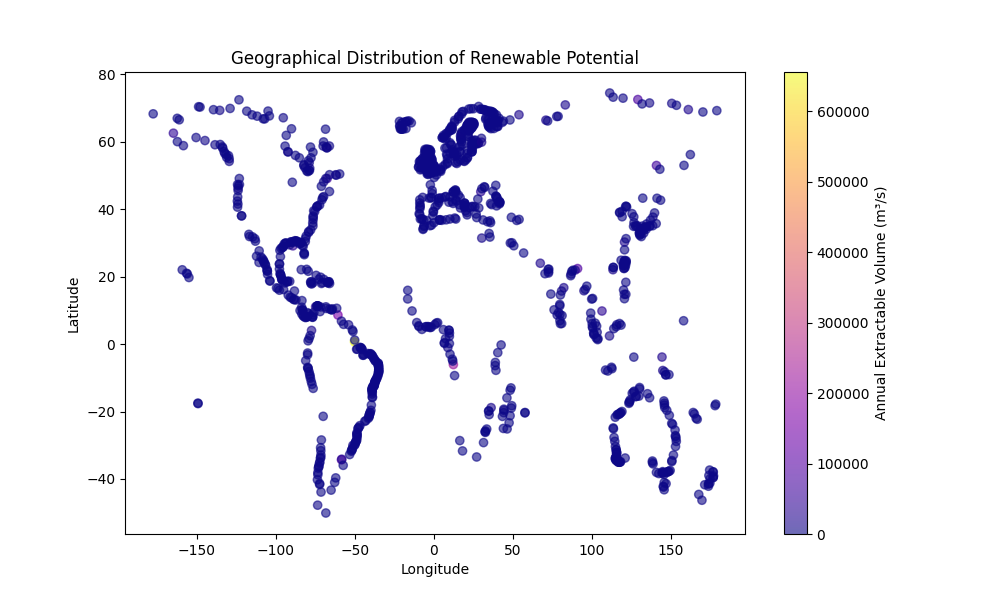
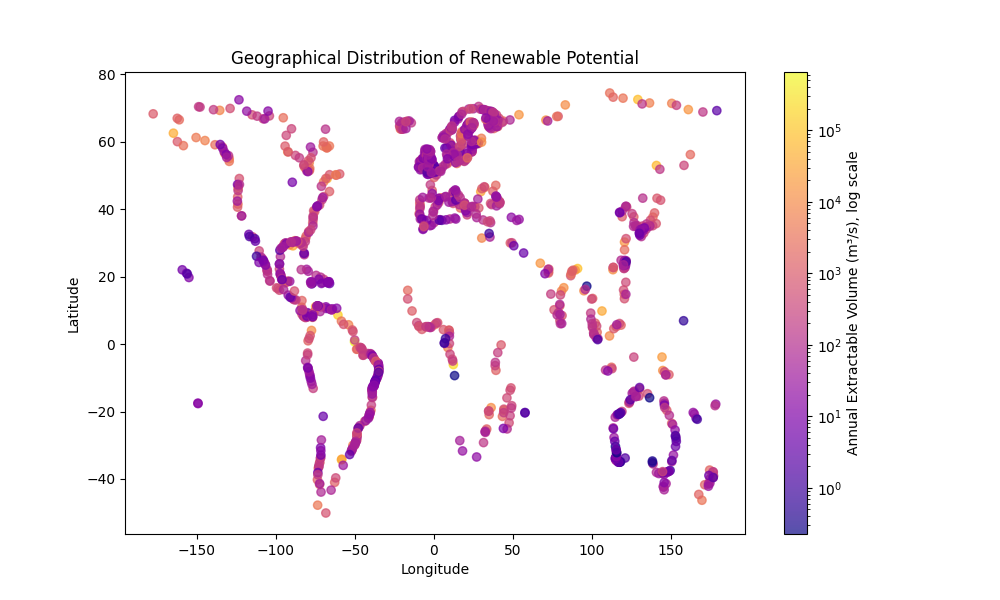
Fix spatial_potential.png colour scale from linear to logarithmic
With a linear scale, this dataset's heavy skew (a small number of very large rivers, most far smaller) crushed nearly every point into the same dark colour, making the chart uninformative. Switched to LogNorm, which spreads the colour range across orders of magnitude instead; verified against the real dataset that variation among small and medium rivers is now clearly visible.

diff --git a/visualize_data.py b/visualize_data.py
@@ -7,12 +7,22 @@ MONTHS = ["January", "February", "March", "April", "May", "June",
 MONTH_COLS = [f"Theoretical_MW_{m}" for m in MONTHS]
 
 def plot_spatial_potential(df):
+    import matplotlib.colors as mcolors
     plt.figure(figsize=(10, 6))
     valid_df = df.dropna(subset=['Longitude', 'Latitude'])
+    values = valid_df.get('Actual extractable water volume per year (Qreal=ΣQex_m) \n(m3/s)', valid_df.iloc[:, 0])
+    # A linear colour scale is unusable here: this dataset is heavily skewed
+    # (a small number of very large rivers, most rivers far smaller), so a
+    # linear scale crushes nearly every point into the same dark colour.
+    # LogNorm spreads the colour range across orders of magnitude instead,
+    # making variation among small and medium rivers actually visible.
+    # Values of zero or below can't be shown on a log scale, so they're
+    # clipped to a small positive floor rather than dropped or erroring.
+    positive_values = values.clip(lower=values[values > 0].min() if (values > 0).any() else 1e-6)
     plt.scatter(valid_df['Longitude'], valid_df['Latitude'],
-                c=valid_df.get('Actual extractable water volume per year (Qreal=ΣQex_m) \n(m3/s)', valid_df.iloc[:, 0]),
-                cmap='plasma', alpha=0.6)
-    plt.colorbar(label='Annual Extractable Volume (m\u00b3/s)')
+                c=positive_values, cmap='plasma', alpha=0.7,
+                norm=mcolors.LogNorm(vmin=positive_values.min(), vmax=positive_values.max()))
+    plt.colorbar(label='Annual Extractable Volume (m\u00b3/s), log scale')
     plt.title('Geographical Distribution of Renewable Potential')
     plt.xlabel('Longitude')
     plt.ylabel('Latitude')
